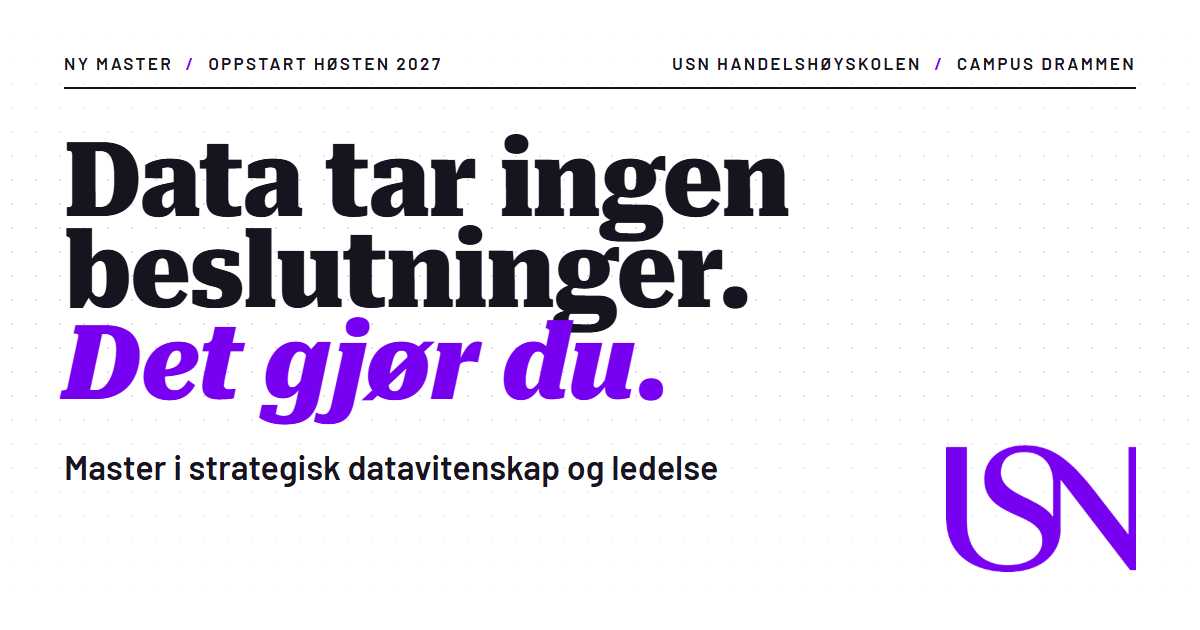
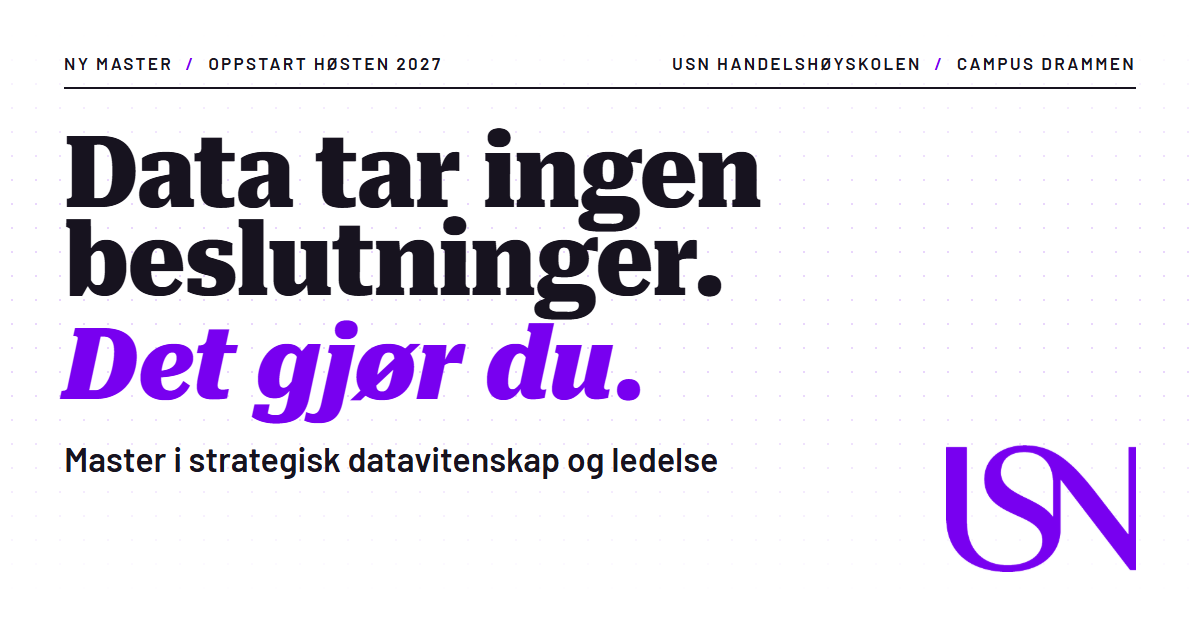
Give the last headline line more room so it no longer overlaps the line above

Changed region(s): [[0.0308, 0.181, 0.6783, 0.7841]]

diff --git a/sdl/assets/css/style.css b/sdl/assets/css/style.css
@@ -211,7 +211,8 @@ h1 {
   line-height: .88; letter-spacing: -.016em;
 }
 h1 span, h1 em { display: block; }
-h1 em { font-style: italic; color: var(--violet); }
+/* extra room above the last line: the "g" in "beslutninger." otherwise lands on the "d" in "du." */
+h1 em { font-style: italic; color: var(--violet); margin-top: .16em; }
 .hero-logo {
   position: absolute; right: 0; bottom: .06em;
   width: clamp(120px, 16vw, 228px); height: auto;
